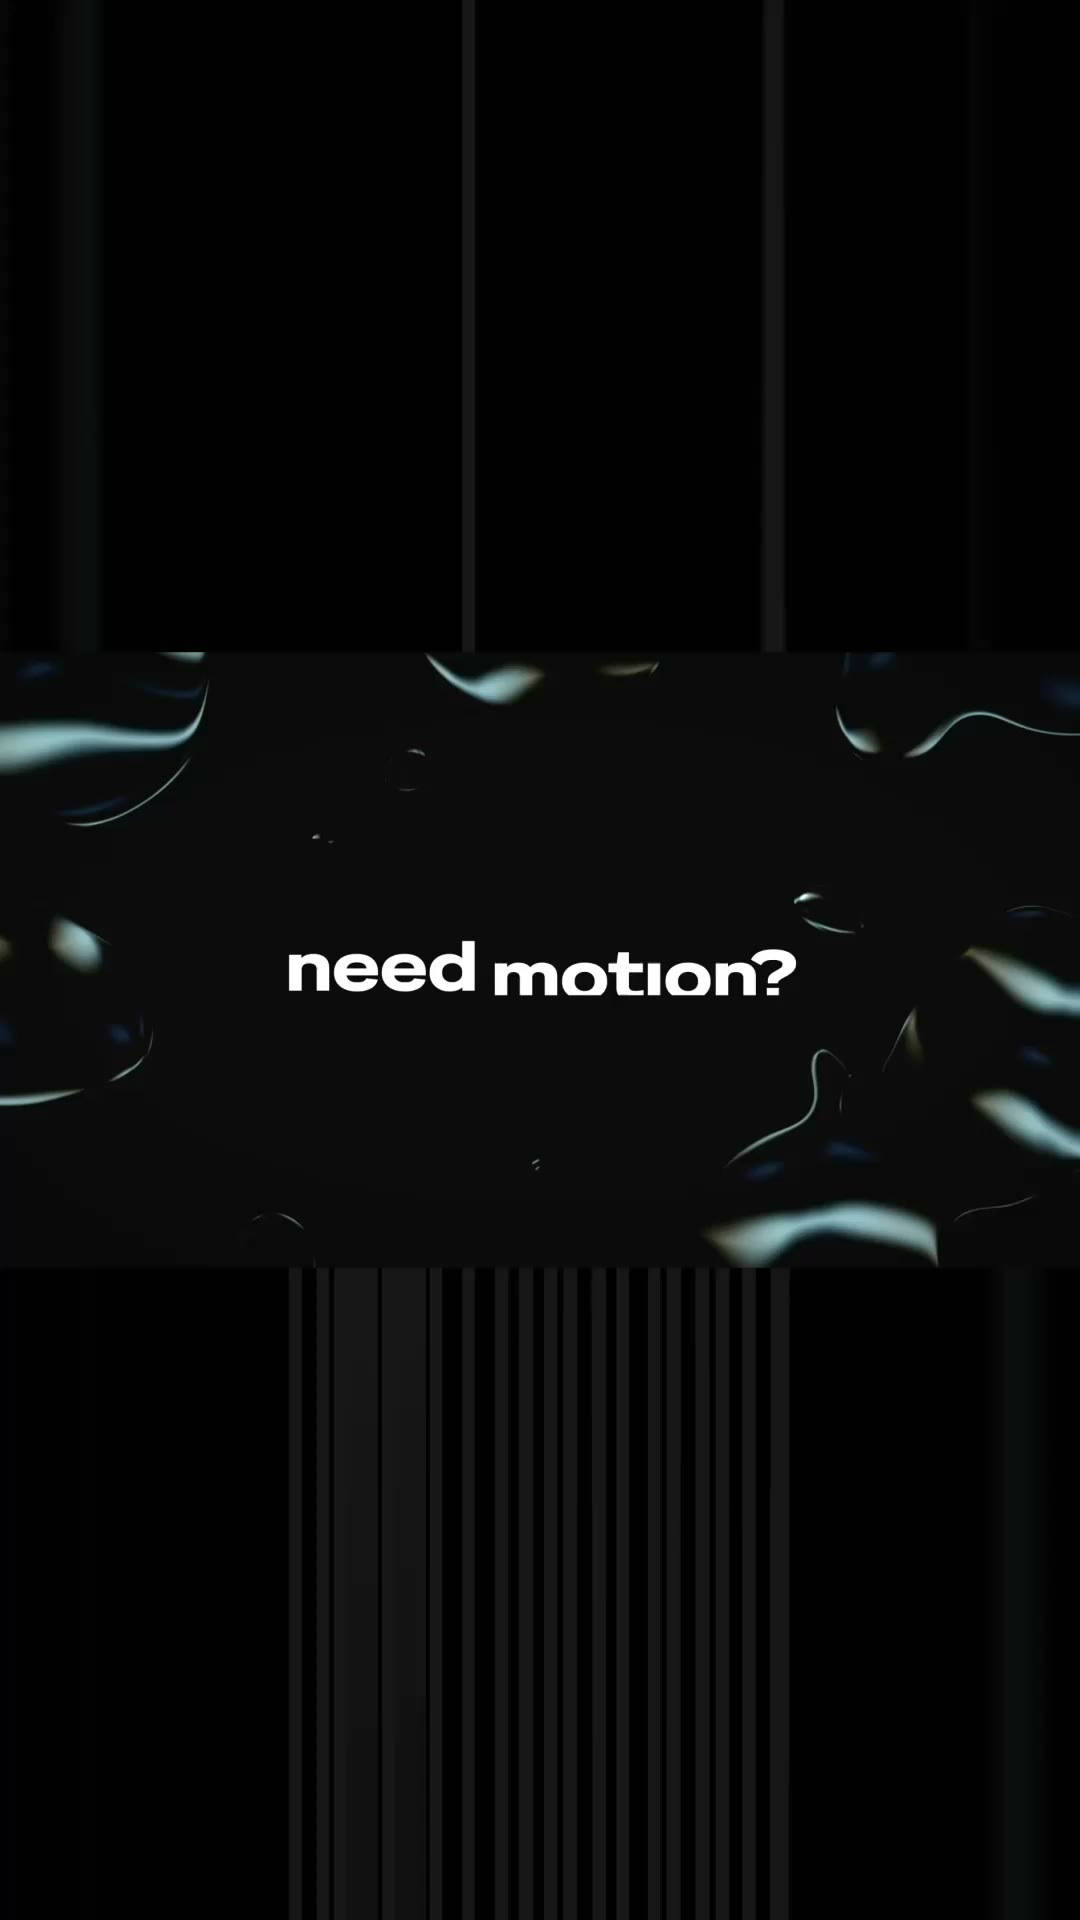
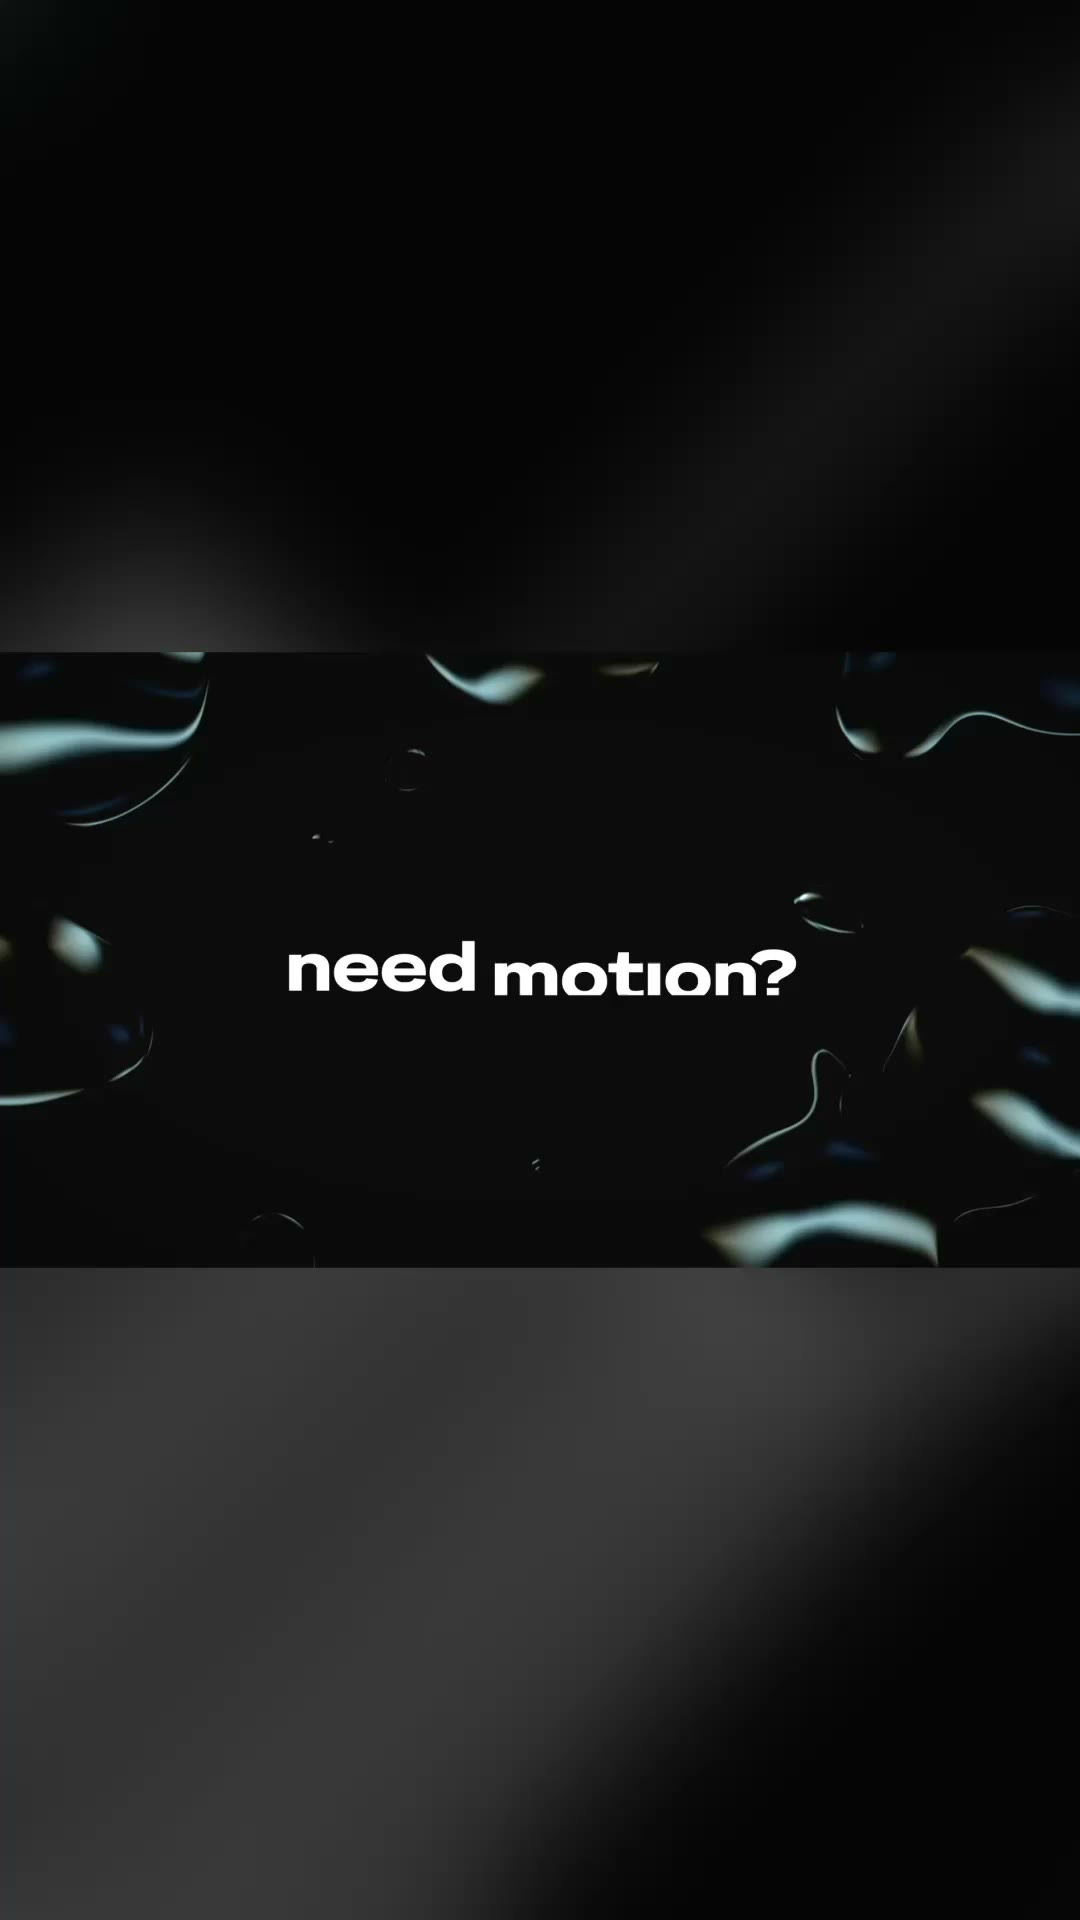
feat(showreel): mobile full-bleed portrait video (v2 export), desktop unchanged

Changed region(s): [[0.0, 0.6562, 1.0, 1.0], [0.0, 0.2812, 0.3056, 0.3438]]

diff --git a/src/components/VideoSection.tsx b/src/components/VideoSection.tsx
@@ -75,9 +75,11 @@ export default function VideoSection() {
       // the sticky frame pins centred. Brand-red surround framing the video.
       className="relative h-svh w-full bg-accent md:h-[160svh]"
     >
-      <div className="flex h-svh w-full items-center justify-center p-6 md:sticky md:top-0 md:p-10">
-        {/* Mobile: portrait 9:16 frame (no crop). Desktop: fills the viewport. */}
-        <div className="relative aspect-[9/16] max-h-full w-full overflow-hidden rounded-2xl bg-ink md:aspect-auto md:h-full">
+      <div className="flex h-svh w-full items-center justify-center md:sticky md:top-0 md:p-10">
+        {/* Mobile: the portrait cut is full-bleed, filling the whole section
+            edge to edge (covers, dynamic to any phone). Desktop: padded,
+            rounded frame on the red surround. */}
+        <div className="relative h-full w-full overflow-hidden bg-ink md:rounded-2xl">
           <video
             ref={videoRef}
             src={src}